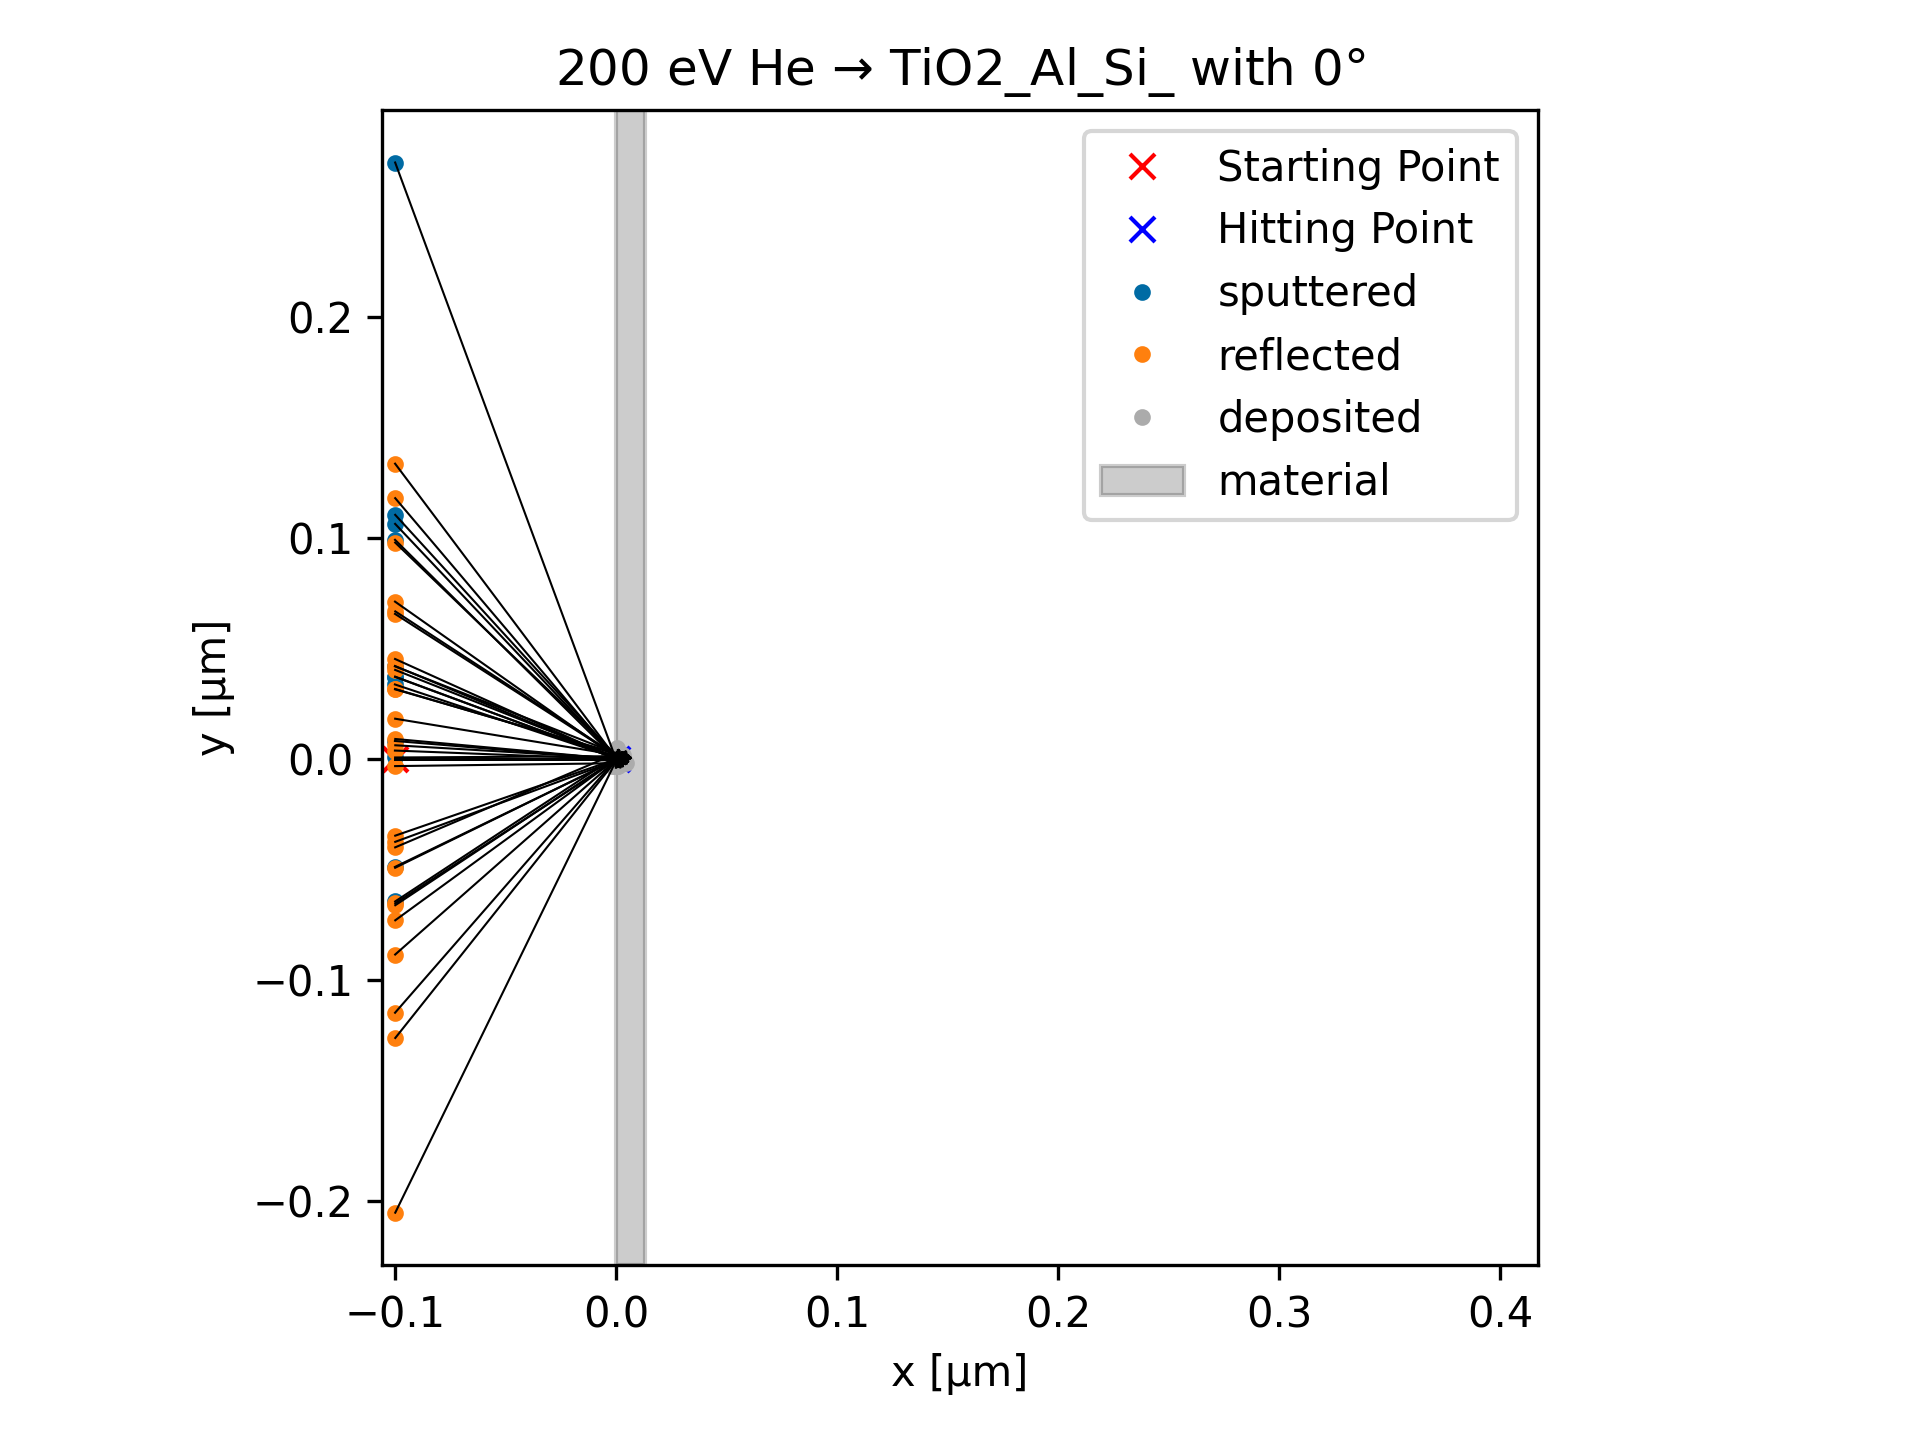
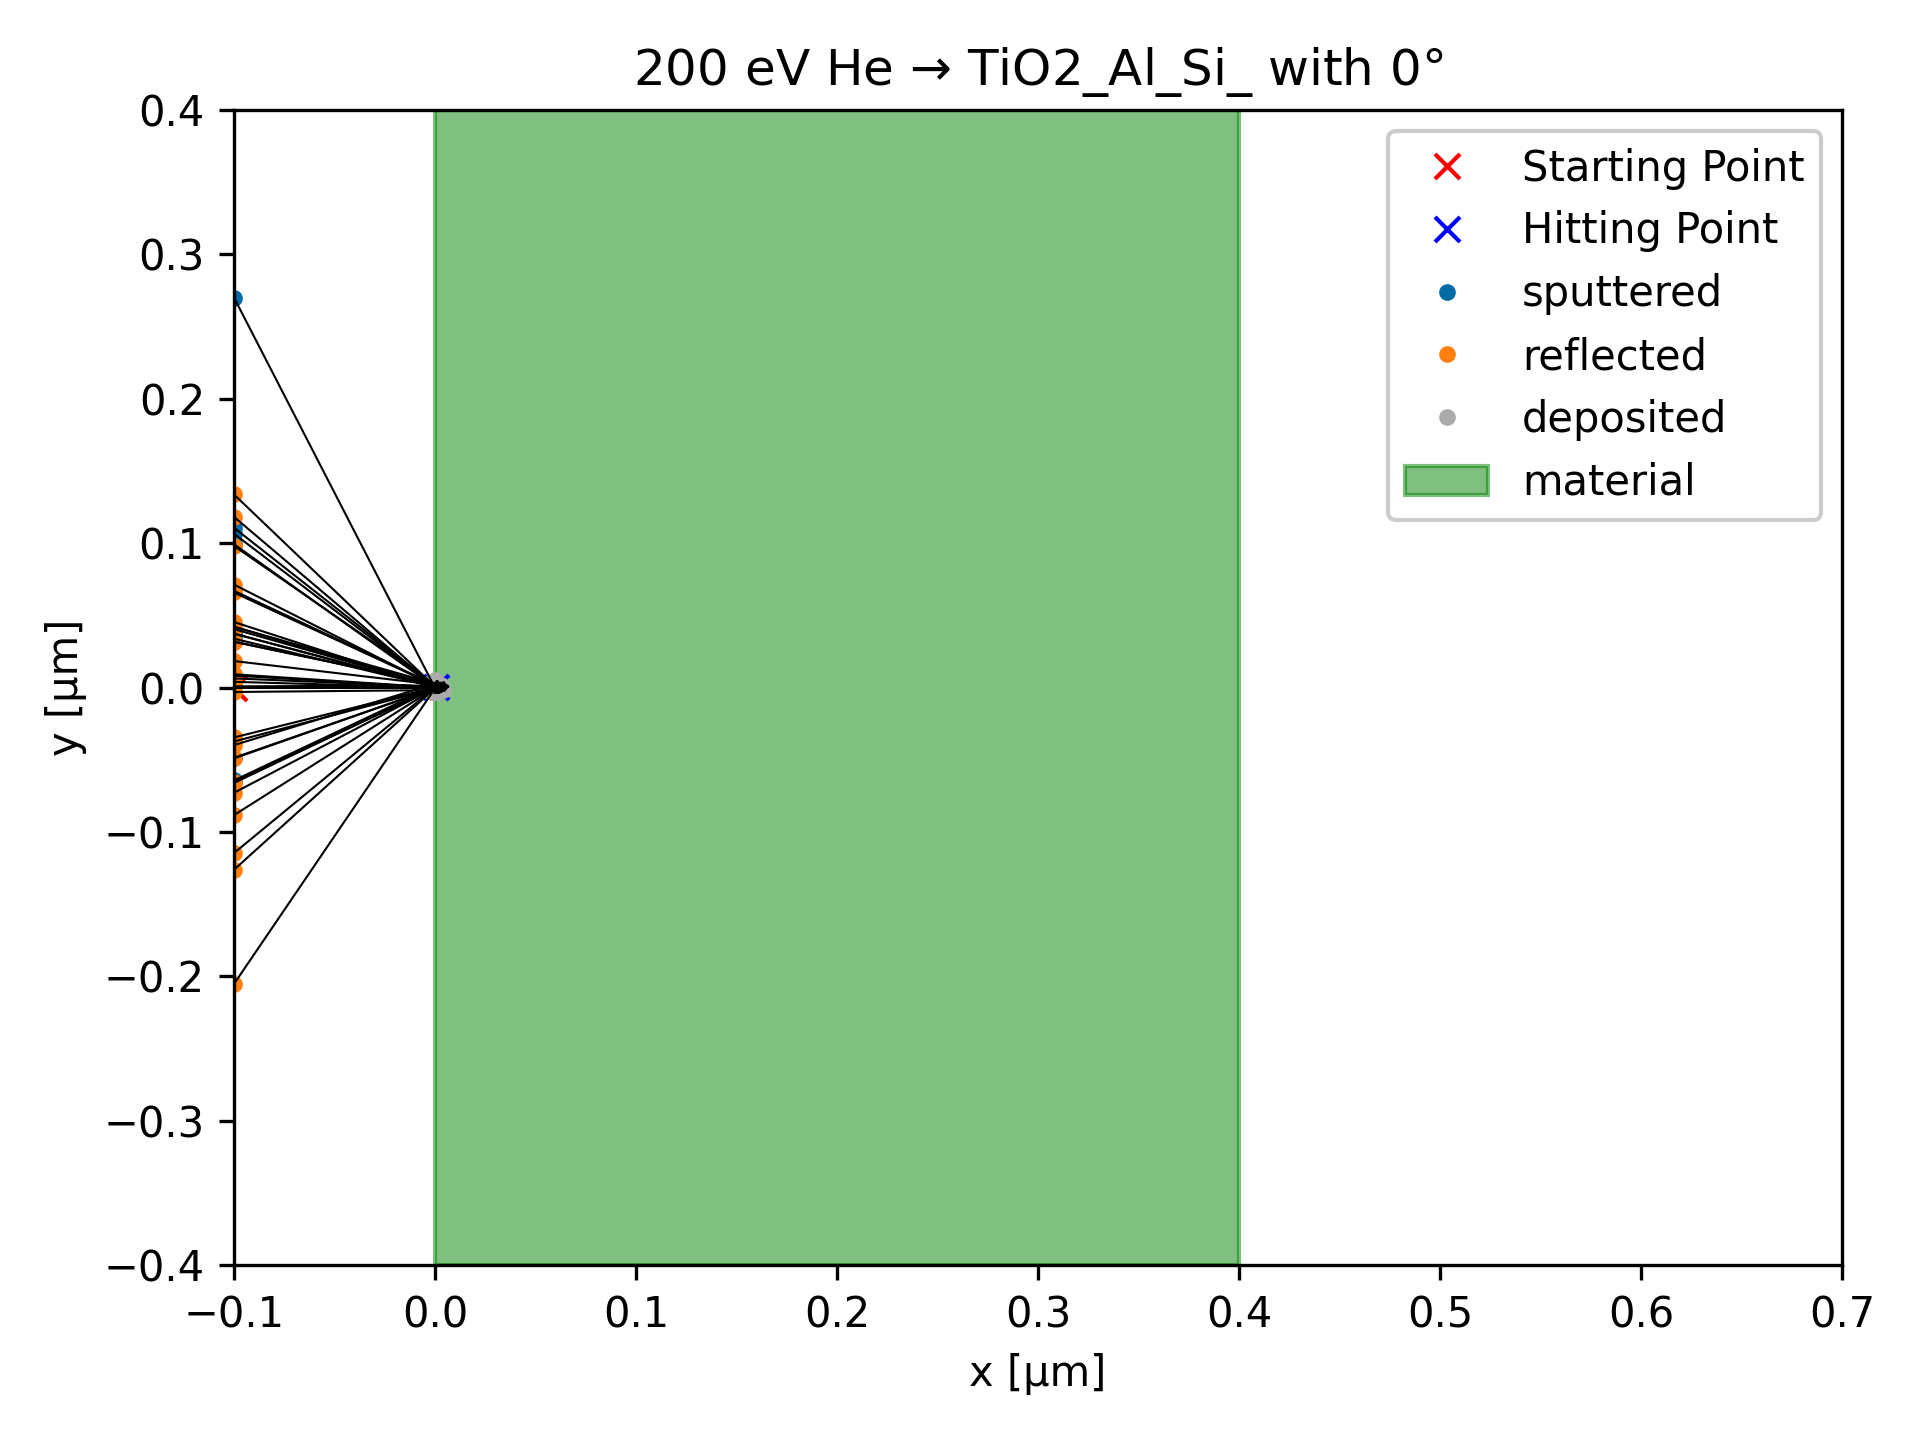
Update

diff --git a/221027_Project2/Project2_functions.py b/221027_Project2/Project2_functions.py
@@ -69,6 +69,23 @@ def empty_file_check(name,filetype):
         check = True
     return check
 
+def angle_histogram(name,particle,target,energy,angle):
+    '''
+    Make a pie chart showing the fraction of sputtered, reflected, and reposited particles
+
+    Args:
+        name (string): name of rustbca simulation
+        particle (string): name of incident particle
+        target (string): name of target material
+        energy (string): energy of incident particle [eV]
+        angle (string): angle of incident particle [degree]
+    '''
+
+    plt.style.use('tableau-colorblind10')
+
+
+    return
+
 def pie_chart_maker(name,particle,target,energy,angle):
     '''
     Make a pie chart showing the fraction of sputtered, reflected, and reposited particles
@@ -122,27 +139,27 @@ def trajectory_plot_maker(name,particle,target,energy,angle):
     
     plt.style.use('tableau-colorblind10')
 
-    fig1, ax1 = plt.subplots()
+    plt.figure()
 
     trajectories = np.atleast_2d(np.genfromtxt(name+'trajectories.output', delimiter=','))
     trajectory_data = np.atleast_1d(np.genfromtxt(name+'trajectory_data.output', delimiter=',').transpose().astype(int))
     hitting_index=trajectory_data[0]
 
-    ax1.plot(trajectories[0,3],trajectories[0,4],'rx',label='Starting Point')
-    ax1.plot(trajectories[hitting_index,3],trajectories[hitting_index,4],'bx',label='Hitting Point')
+    plt.plot(trajectories[0,3],trajectories[0,4],'rx',label='Starting Point')
+    plt.plot(trajectories[hitting_index,3],trajectories[hitting_index,4],'bx',label='Hitting Point')
 
     x_max, x_min, y_max, y_min = 0.0, 0.0, 0.0, 0.0
     if empty_file_check(name,'sputtered.output'):
         sputtered = np.atleast_2d(np.genfromtxt(name+'sputtered.output', delimiter=','))
-        ax1.plot(sputtered[:,3],sputtered[:,4],'.',label='sputtered')
+        plt.plot(sputtered[:,3],sputtered[:,4],'.',label='sputtered')
         x_max, x_min, y_max, y_min = max_min_finder(sputtered[:,3],sputtered[:,4], x_max, x_min, y_max, y_min)
     if empty_file_check(name,'reflected.output'):
         reflected = np.atleast_2d(np.genfromtxt(name+'reflected.output', delimiter=','))
-        ax1.plot(reflected[:,3],reflected[:,4],'.',label='reflected')
+        plt.plot(reflected[:,3],reflected[:,4],'.',label='reflected')
         x_max, x_min, y_max, y_min = max_min_finder(reflected[:,3],reflected[:,4], x_max, x_min, y_max, y_min)
     if empty_file_check(name,'deposited.output'):
         deposited = np.atleast_2d(np.genfromtxt(name+'deposited.output', delimiter=','))
-        ax1.plot(deposited[:,3],deposited[:,4],'.',label='deposited')
+        plt.plot(deposited[:,3],deposited[:,4],'.',label='deposited')
         x_max, x_min, y_max, y_min = max_min_finder(deposited[:,3],deposited[:,4], x_max, x_min, y_max, y_min)
 
     index = 0    
@@ -155,17 +172,19 @@ def trajectory_plot_maker(name,particle,target,energy,angle):
         z = trajectories[index:(trajectory_length+index),5] # z position [μm]
 
         x_max, x_min, y_max, y_min = max_min_finder(x,y, x_max, x_min, y_max, y_min)
-        ax1.plot(x,y,'k-',linewidth=0.5)
+        plt.plot(x,y,'k-',linewidth=0.5)
         index += trajectory_length
 
-    ax1.axvspan(0,x_max*2,color='k',alpha=0.2,label='material')
-    ax1.set_xlabel('x [μm]')
-    #ax1.set_xlim(x_min*2,x_max*2)
-    ax1.set_ylabel('y [μm]')
-    ax1.set_ylim((-0.4,0.4))
-    ax1.axis('square')
-    ax1.legend()
+    plt.axvspan(0,0.4,color='g',alpha=0.5,label='material')
+    plt.xlabel('x [μm]')
+    plt.ylabel('y [μm]')
+    plt.xlim((-0.1,0.7))
+    plt.ylim((-0.4,0.4))
+    
+    #plt.axis('square')
+    plt.legend(framealpha=1.0)
     plt.title(energy+' eV '+particle+' → '+target+' with '+angle+'$\degree$')
+    plt.tight_layout()
     plt.savefig('Trajectory_'+name+'.png',dpi=300)
     #plt.show()
 

diff --git a/221027_Project2/Project2_Toyofumi_Yamauchi.py b/221027_Project2/Project2_Toyofumi_Yamauchi.py
@@ -11,7 +11,7 @@ def main():
     angle = np.array(('0','15','30'))
     name = np.array(('1_','2_','3_'))
     for i in range(0,len(angle)):
-        #pie_chart_maker(name[i],particle,target,energy,angle[i])
+        pie_chart_maker(name[i],particle,target,energy,angle[i])
         trajectory_plot_maker(name[i],particle,target,energy,angle[i])
 
 if __name__ == '__main__':
